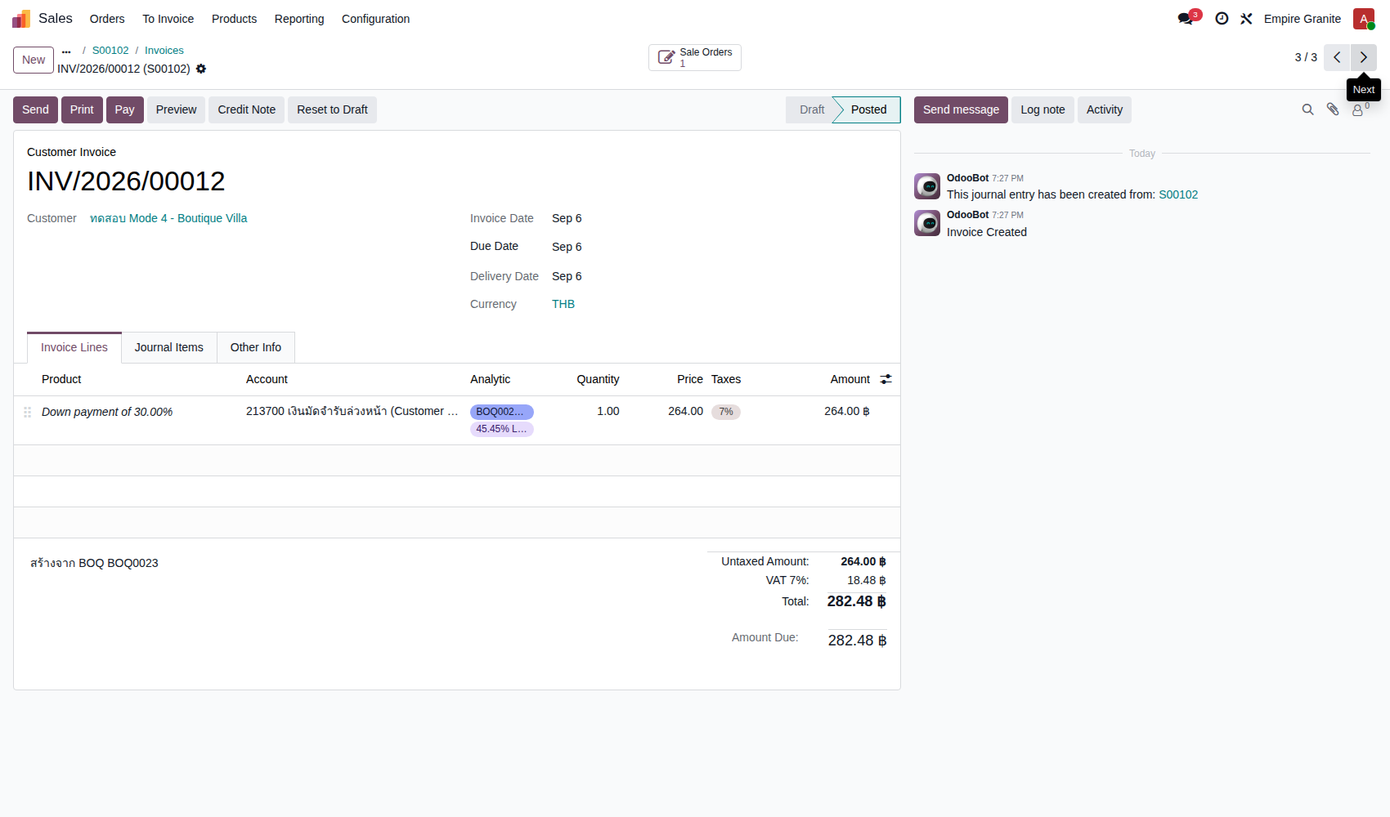
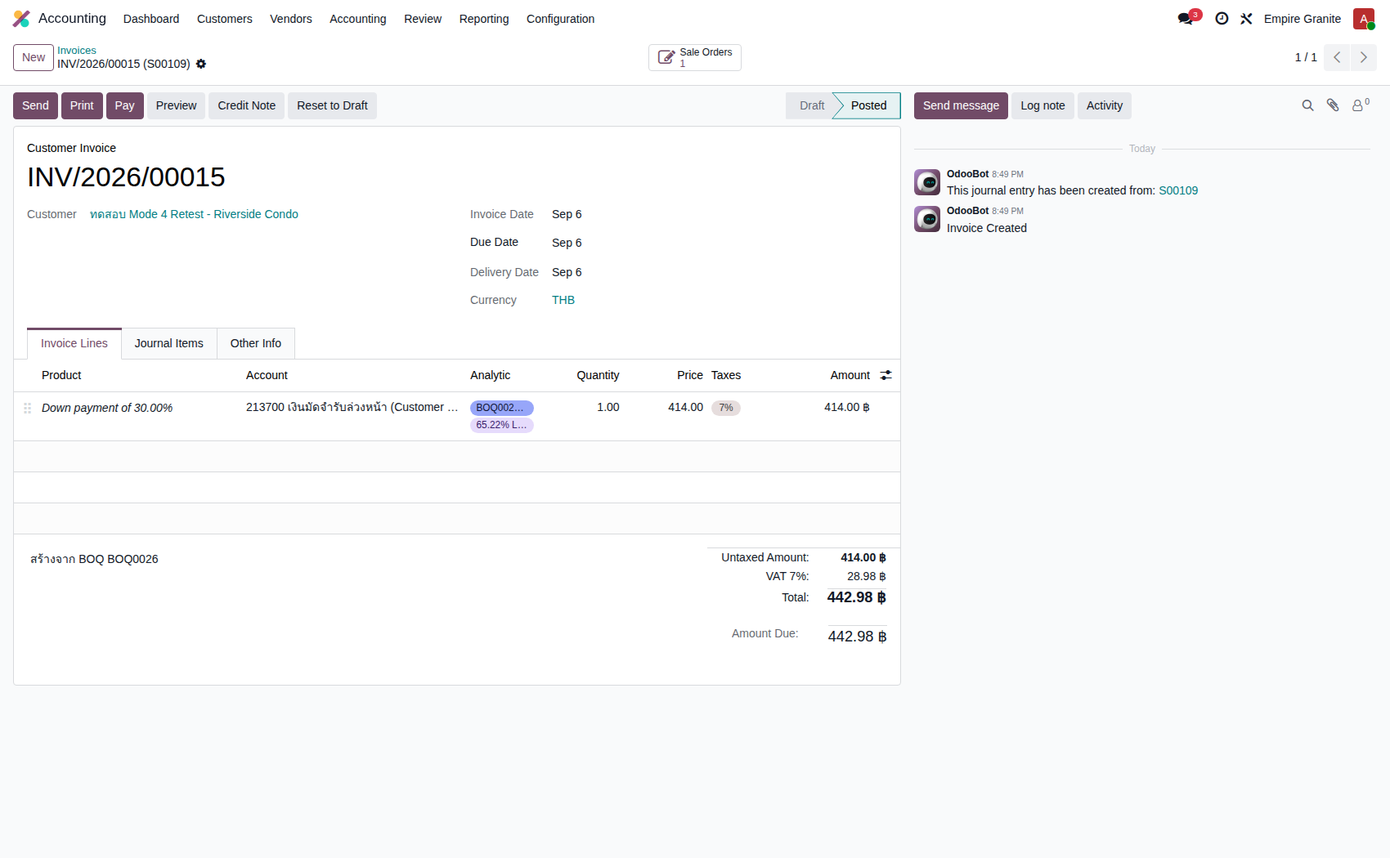
Retest Mode 4 Golden Path after Lot-mode bug fixes, fresh screenshots
The 3 Lot-mode stone-material bugs documented as known-issues in
TC-E2E-M4-03/09 (delivery routing, phantom negative stock, BOQ
lump-sum price clobbered) are fixed in stone_slab_inventory
(34be05d + 1e09854). Re-ran the full Mode 4 flow live through the
Odoo web UI via Playwright against a fresh fixture (BOQ0026 -> SO
S00109 -> Project 40 -> 3 Down Payment invoices -> Delivery
EG01/OUT/00064) to verify all 3 fixes hold end-to-end, and replaced
every screenshot + figure in the doc with real captures from this
run. TC-03 and TC-09's know-issue callouts are now green "fixed and
re-verified" notes instead of red bug flags.

diff --git a/qa/test-cases-e2e-mode4.html b/qa/test-cases-e2e-mode4.html
@@ -82,6 +82,7 @@
   .tc-shot-link:hover img{transform:scale(1.6);position:relative;z-index:5;box-shadow:0 8px 24px rgba(0,0,0,.3);}
   .tc-id{font-family:Consolas,Menlo,monospace;font-size:11.5px;color:var(--copper-dark);font-weight:700;}
   .note{margin-top:6px;font-size:11.5px;color:var(--amber);background:var(--amber-bg);border-radius:6px;padding:4px 8px;}
+  .note-ok{color:var(--green);background:var(--green-bg);}
   .prio-badge{display:inline-block;font-size:11px;font-weight:700;letter-spacing:.3px;padding:3px 10px;border-radius:99px;}
   .prio-high{background:var(--red-bg);color:var(--red);}
   .prio-med{background:var(--amber-bg);color:var(--amber);}
@@ -109,7 +110,7 @@
   <header>
     <div class="eyebrow">Empire Stone × Empire Granite — QA</div>
     <h1>Test Cases: E2E Flow — Mode 4 (Sold-as-Project)</h1>
-    <div class="sub">เรื่องราวเดียวต่อเนื่องกันตั้งแต่ตั้งต้นจากเอกสาร BOQ ติ๊ก "Sold as Project" ยืนยันคำสั่งขายให้ระบบสร้าง Project + Task ให้อัตโนมัติ เรียกเก็บเงินแบบมัดจำ 3 งวด (30/40/30) ส่งมอบสินค้าจริง ปิดงานให้ Milestone ขึ้นสำเร็จ จนถึงตรวจสอบกำไรขาดทุนของโปรเจกต์และรายการบัญชี — ไม่ใช่การเทสฟีเจอร์แยกส่วน และไม่มีข้อไหนเป็นการดักฟิลด์บังคับ/error ทั่วไป เดินตามได้เองแม้ไม่ใช่ technical user ตัวเลข "ตัวอย่างจริง" มาจากการรันจริงที่ทำขึ้นเฉพาะสำหรับเอกสารนี้ ไม่ใช่ตัวเลขสมมติ — รวมถึง 3 ปัญหาจริงที่พบระหว่างทางซึ่งยังไม่ได้แก้ไข (ดูกล่องสีเหลืองใน TC-03 และ TC-09)</div>
+    <div class="sub">เรื่องราวเดียวต่อเนื่องกันตั้งแต่ตั้งต้นจากเอกสาร BOQ ติ๊ก "Sold as Project" ยืนยันคำสั่งขายให้ระบบสร้าง Project + Task ให้อัตโนมัติ เรียกเก็บเงินแบบมัดจำ 3 งวด (30/40/30) ส่งมอบสินค้าจริง ปิดงานให้ Milestone ขึ้นสำเร็จ จนถึงตรวจสอบกำไรขาดทุนของโปรเจกต์และรายการบัญชี — ไม่ใช่การเทสฟีเจอร์แยกส่วน และไม่มีข้อไหนเป็นการดักฟิลด์บังคับ/error ทั่วไป เดินตามได้เองแม้ไม่ใช่ technical user ตัวเลข "ตัวอย่างจริง" มาจากการรันจริงที่ทำขึ้นเฉพาะสำหรับเอกสารนี้ ไม่ใช่ตัวเลขสมมติ — รวมถึง 3 ปัญหาจริงที่เคยพบระหว่างทาง ซึ่งแก้ไขและทดสอบซ้ำผ่านแล้ว (ดูกล่องสีเขียวใน TC-03 และ TC-09)</div>
     <div class="stat-row">
       <div class="stat-pill"><b>13</b>Test Case ทั้งหมด</div>
       <div class="stat-pill"><b>6</b>หมวด</div>
@@ -120,8 +121,8 @@
   </header>
 
   <div class="flow-banner">
-    <b>เรื่องราวที่ใช้อ้างอิง:</b> BOQ0023 (ลูกค้า "ทดสอบ Mode 4 - Boutique Villa") &rarr; Generate Quotation &rarr; SO S00102 (ติ๊ก Sold as Project) &rarr; Select Lot Stock (Vietnam Limestone Lot BLK-26-0004, 0.5 ตร.ม.) &rarr; Confirm &rarr; Project 38 + 4 Tasks สร้างอัตโนมัติ &rarr; Down Payment 3 งวด INV/2026/00012 (282.48, 30%) + 00013 (376.64, 40%) + 00014 (282.48, 30%) รวม 941.60 บาท &rarr; Delivery EG01/OUT/00059 (Done) &rarr; Task จริง 2 งาน Mark Done &rarr; Milestone "ปูพื้นหินเสร็จสมบูรณ์" Reached &rarr; Project Dashboard: Total Revenues 880 = Invoiced 880 บาท — <b>เดินสดผ่านหน้าจอ Odoo จริงทุกขั้นตอน</b> (Playwright ไม่ใช่ผ่าน <code>odoo shell</code>) บน <code>mbx-ee-dev</code> เฉพาะสำหรับเอกสารนี้ 2026-09-06 ทุกภาพประกอบด้านล่างคือภาพหน้าจอจริงจากการรันนี้ ไม่ใช่ภาพจำลอง<br><br>
-    <b>🔴 พบ 3 ปัญหาจริงยังไม่ได้แก้:</b> ทั้งหมดอยู่ในเส้นทางสินค้าโหมด Lot (ไม่เฉพาะ Mode 4) — (1) เส้นทางส่งของดึงสต็อกจากจุดพัก "Stone Hold" ที่โหมด Lot ไม่เคยย้ายของเข้าจริง ทำให้ยอดติดลบเพิ่มขึ้นทุกครั้งที่ส่งของ (2) ผลจากข้อ 1 ทำให้ตัวเลข "สต็อกคงเหลือ" ที่ระบบโชว์ต่ำกว่าของจริงมาก (3) ราคาที่ BOQ ตั้งไว้ถูกเขียนทับด้วยราคาป้ายสินค้าปกติหลังเลือกสต็อก Lot โดยไม่มีคำเตือน — ดูรายละเอียดที่ TC-03 และ TC-09
+    <b>เรื่องราวที่ใช้อ้างอิง:</b> BOQ0026 (ลูกค้า "ทดสอบ Mode 4 Retest - Riverside Condo") &rarr; Generate Quotation &rarr; SO S00109 (ติ๊ก Sold as Project) &rarr; Select Lot Stock (Vietnam Limestone Lot BLK-26-0004, 0.5 ตร.ม.) &rarr; Confirm &rarr; Project 40 + 4 Tasks สร้างอัตโนมัติ &rarr; Down Payment 3 งวด INV/2026/00015 (442.98, 30%) + 00016 (590.64, 40%) + 00017 (442.98, 30%) รวม 1,476.60 บาท &rarr; Delivery EG01/OUT/00064 (Done) &rarr; Task จริง 2 งาน Mark Done &rarr; Milestone "ปูพื้นระเบียงเสร็จสมบูรณ์" Reached &rarr; Project Dashboard: Total Revenues 1,380 = Invoiced 1,380 บาท — <b>เดินสดผ่านหน้าจอ Odoo จริงทุกขั้นตอน</b> (Playwright ไม่ใช่ผ่าน <code>odoo shell</code>) บน <code>mbx-ee-dev</code> เฉพาะสำหรับเอกสารนี้ 2026-09-06 ทุกภาพประกอบด้านล่างคือภาพหน้าจอจริงจากการรันนี้ ไม่ใช่ภาพจำลอง<br><br>
+    <b style="color:var(--green)">✅ พบ 3 ปัญหาจริง — แก้ไขและทดสอบซ้ำผ่านแล้ว:</b> รอบก่อนหน้า (BOQ0023 &rarr; SO S00102, ลูกค้า "ทดสอบ Mode 4 - Boutique Villa") พบ 3 ปัญหาจริงในเส้นทางสินค้าโหมด Lot (ไม่เฉพาะ Mode 4) — (1) เส้นทางส่งของดึงสต็อกจากจุดพัก "Stone Hold" ที่โหมด Lot ไม่เคยย้ายของเข้าจริง ทำให้ยอดติดลบเพิ่มขึ้นทุกครั้งที่ส่งของ (2) ผลจากข้อ 1 ทำให้ตัวเลข "สต็อกคงเหลือ" ที่ระบบโชว์ต่ำกว่าของจริงมาก (3) ราคาที่ BOQ ตั้งไว้ถูกเขียนทับด้วยราคาป้ายสินค้าปกติหลังเลือกสต็อก Lot โดยไม่มีคำเตือน — ทั้ง 3 ข้อแก้ไขแล้วในโค้ด (<code>stone_slab_inventory</code> commit 34be05d + 1e09854) และรันรอบนี้ (BOQ0026 &rarr; SO S00109) เพื่อยืนยันว่าผ่านจริง — ดูรายละเอียดที่ TC-03 และ TC-09
   </div>
 
   <div class="category" id="F1">
@@ -151,8 +152,8 @@
           <td class="col-scenario">สร้างใบเสนอราคาจากเอกสาร BOQ ("Generate Quotation")</td>
           <td class="col-pre">มีเอกสาร BOQ ที่กรอกรายการและราคาเรียบร้อยแล้ว (สถานะ Draft)</td>
           <td class="col-steps"><ol><li>เปิดเอกสาร BOQ</li><li>ตรวจรายการ + % Preliminaries/Overhead ให้ครบ</li><li>กดปุ่ม "สร้างใบเสนอราคา" (สีม่วง มุมซ้ายบน)</li></ol></td>
-          <td class="col-sample">BOQ0023 — ลูกค้า "ทดสอบ Mode 4 - Boutique Villa"<br>2 รายการ: Vietnam Limestone - Slab 0.5 ตร.ม. + Dry-Lay 1.5 ตร.ม.<br>Preliminaries 5% + Overhead &amp; Profit 10%</td>
-          <td class="col-expected">สถานะ BOQ เปลี่ยนเป็น "Quotation Generated" เกิด Sale Order ใหม่ 1 ใบอัตโนมัติ ดึงทุกรายการ + ค่า Preliminaries/Overhead มาเป็นบรรทัดในใบเสนอราคาให้ครบ — ตัวอย่างจริง: BOQ0023 (รวม 1,380.00 บาท ก่อน VAT) &rarr; SO S00102</td>
+          <td class="col-sample">BOQ0026 — ลูกค้า "ทดสอบ Mode 4 Retest - Riverside Condo"<br>2 รายการ: Vietnam Limestone - Slab 0.5 ตร.ม. + Dry-Lay 1.5 ตร.ม.<br>Preliminaries 5% + Overhead &amp; Profit 10%</td>
+          <td class="col-expected">สถานะ BOQ เปลี่ยนเป็น "Quotation Generated" เกิด Sale Order ใหม่ 1 ใบอัตโนมัติ ดึงทุกรายการ + ค่า Preliminaries/Overhead มาเป็นบรรทัดในใบเสนอราคาให้ครบ — ตัวอย่างจริง: BOQ0026 (รวม 1,380.00 บาท ก่อน VAT) &rarr; SO S00109</td>
           <td class="col-prio"><span class="prio-badge prio-high">High</span></td>
           <td class="col-shot"><a class="tc-shot-link" href="assets/mode4/tc01-boq-document.png" target="_blank" title="เปิดภาพหน้าจอจริงขนาดเต็ม"><img src="assets/mode4/tc01-boq-document.png" loading="lazy"></a></td>
         </tr>
@@ -194,11 +195,11 @@
       <tbody>
         <tr>
           <td class="col-id"><span class="tc-id">TC-E2E-M4-03</span></td>
-          <td class="col-scenario">เลือกสต็อกจริงให้บรรทัดสินค้าหิน ("Select Lot Stock")<div class="note">🔴 พบปัญหาจริง (ยังไม่แก้): (1) ช่องแสดงสต็อกคงเหลือของ Lot นี้ขึ้นแค่ 0.54 ตร.ม. ทั้งที่ของจริงมี 2.34 ตร.ม. อยู่หน้าคลัง (2) หลังกดยืนยันจำนวนแล้ว ราคาต่อหน่วยของบรรทัดจะเปลี่ยนจากราคาที่ BOQ ตั้งไว้ (900 บาท) เป็นราคาป้ายสินค้าปกติคูณจำนวนใหม่ (400 บาท) โดยไม่มีคำเตือนใดๆ — เป็นบั๊กจริงของระบบ ไม่ใช่ขั้นตอนที่ตั้งใจให้เป็นแบบนี้ ผู้ใช้ควรตรวจราคาทุกครั้งหลังทำขั้นนี้</div></td>
+          <td class="col-scenario">เลือกสต็อกจริงให้บรรทัดสินค้าหิน ("Select Lot Stock")<div class="note note-ok">✅ เคยพบปัญหาจริงตรงนี้ (ราคาที่ BOQ ตั้งไว้ถูกเขียนทับด้วยราคาป้ายสินค้าปกติ) — แก้ไขแล้วและทดสอบซ้ำผ่านในรอบนี้: ระบบคำนวณราคาต่อหน่วยใหม่ให้อัตโนมัติจากยอดรวมเดิมที่ BOQ ตั้งไว้ ไม่ใช้ราคาป้ายสินค้าอีกต่อไป</div></td>
           <td class="col-pre">ทำ TC-E2E-M4-02 เสร็จแล้ว บรรทัดสินค้าหินยังไม่ได้ผูกกับสต็อกจริง</td>
           <td class="col-steps"><ol><li>ที่บรรทัดสินค้าหิน กดลิงก์ "Select Lot Stock"</li><li>เลือก Lot ของ Material นั้น</li><li>กรอกจำนวนตร.ม.ที่จะขายจริง (ดูได้จากคำอธิบายท้ายชื่อสินค้าในบรรทัด)</li><li>กดยืนยัน</li></ol></td>
           <td class="col-sample">Lot = BLK-26-0004<br>จำนวน = 0.5 ตร.ม.</td>
-          <td class="col-expected">บรรทัดผูกกับ Lot ที่เลือกสำเร็จ จำนวนเปลี่ยนเป็น 0.5 ตร.ม. ตามที่กรอก — ตัวอย่างจริง: ราคาต่อหน่วยเปลี่ยนจาก 900.00 เป็น 800.00×0.5 = 400.00 บาท (ดูหมายเหตุด้านซ้าย)</td>
+          <td class="col-expected">บรรทัดผูกกับ Lot ที่เลือกสำเร็จ จำนวนเปลี่ยนเป็น 0.5 ตร.ม. ตามที่กรอก ราคารวมของบรรทัดยังคงเท่าเดิมกับที่ BOQ ตั้งไว้เป๊ะ (ระบบคำนวณราคาต่อหน่วยใหม่ให้เอง) — ตัวอย่างจริง: ราคาต่อหน่วยเปลี่ยนจาก 900.00 (ที่จำนวน 1 หน่วยตั้งต้น) เป็น 1,800.00 บาท/ตร.ม. &times; 0.5 ตร.ม. = ยอดรวม 900.00 บาท เท่าเดิมทุกบาท</td>
           <td class="col-prio"><span class="prio-badge prio-high">High</span></td>
           <td class="col-shot"><a class="tc-shot-link" href="assets/mode4/tc03-so-confirmed.png" target="_blank" title="เปิดภาพหน้าจอจริงขนาดเต็ม"><img src="assets/mode4/tc03-so-confirmed.png" loading="lazy"></a></td>
         </tr>
@@ -208,7 +209,7 @@
           <td class="col-pre">ทำ TC-E2E-M4-03 เสร็จแล้ว</td>
           <td class="col-steps"><ol><li>กดปุ่ม Confirm บน Sale Order</li></ol></td>
           <td class="col-sample">-</td>
-          <td class="col-expected">SO เปลี่ยนสถานะเป็น "Sales Order" เกิดปุ่ม/สถิติใหม่มุมบน: "Projects 1", "Tasks", "Delivery 1", "Invoices" — ไม่ต้องสร้าง Project เองแยกต่างหาก — ตัวอย่างจริง: S00102 (ยอดรวมหลังปรับราคาจาก TC-03 = 941.60 บาท รวม VAT) &rarr; Project id 38</td>
+          <td class="col-expected">SO เปลี่ยนสถานะเป็น "Sales Order" เกิดปุ่ม/สถิติใหม่มุมบน: "Projects 1", "Tasks", "Delivery 1", "Invoices" — ไม่ต้องสร้าง Project เองแยกต่างหาก — ตัวอย่างจริง: S00109 (ยอดรวม 1,476.60 บาท รวม VAT) &rarr; Project id 40</td>
           <td class="col-prio"><span class="prio-badge prio-high">High</span></td>
           <td class="col-shot"><a class="tc-shot-link" href="assets/mode4/tc02-is-project-sale.png" target="_blank" title="เปิดภาพหน้าจอจริงขนาดเต็ม"><img src="assets/mode4/tc02-is-project-sale.png" loading="lazy"></a></td>
         </tr>
@@ -218,7 +219,7 @@
           <td class="col-pre">ทำ TC-E2E-M4-04 เสร็จแล้ว</td>
           <td class="col-steps"><ol><li>กดปุ่มสถิติ "Tasks" บน Sale Order (หรือเปิด Project แล้วดู Tasks)</li></ol></td>
           <td class="col-sample">-</td>
-          <td class="col-expected">เห็น Task ครบ 1 งานต่อ 1 บรรทัดสินค้า/บริการ — ตัวอย่างจริง: 4 Tasks ("Vietnam Limestone - Slab...", "Dry-Lay", "BOQ Summary Line Preliminaries (5%)", "BOQ Summary Line Overhead &amp; Profit (10%)")</td>
+          <td class="col-expected">เห็น Task ครบ 1 งานต่อ 1 บรรทัดสินค้า/บริการ — ตัวอย่างจริง: 4 Tasks ("Vietnam Limestone - Slab (ปูพื้นระเบียง)...", "Dry-Lay", "BOQ Summary Line Preliminaries (5%)", "BOQ Summary Line Overhead &amp; Profit (10%)")</td>
           <td class="col-prio"><span class="prio-badge prio-med">Medium</span></td>
           <td class="col-shot"><a class="tc-shot-link" href="assets/mode4/tc04-tasks-created.png" target="_blank" title="เปิดภาพหน้าจอจริงขนาดเต็ม"><img src="assets/mode4/tc04-tasks-created.png" loading="lazy"></a></td>
         </tr>
@@ -254,7 +255,7 @@
           <td class="col-pre">ทำ TC-E2E-M4-04 เสร็จแล้ว</td>
           <td class="col-steps"><ol><li>เปิด Sale Order &gt; กด "Create Invoice"</li><li>เลือก "Down payment (Percentage)" &gt; กรอก 30</li><li>กด "Create Draft Invoice"</li><li>เปิดใบแจ้งหนี้ที่เกิดขึ้น &gt; กด Confirm</li></ol></td>
           <td class="col-sample">Down Payment = 30%</td>
-          <td class="col-expected">ใบแจ้งหนี้สถานะ Posted ยอด 30% ของยอดรวม SO — ตัวอย่างจริง: INV/2026/00012 (282.48 บาท จาก 941.60 &times; 30%)</td>
+          <td class="col-expected">ใบแจ้งหนี้สถานะ Posted ยอด 30% ของยอดรวม SO — ตัวอย่างจริง: INV/2026/00015 (442.98 บาท จาก 1,476.60 &times; 30%)</td>
           <td class="col-prio"><span class="prio-badge prio-high">High</span></td>
           <td class="col-shot"><a class="tc-shot-link" href="assets/mode4/tc05-dp1-30pct.png" target="_blank" title="เปิดภาพหน้าจอจริงขนาดเต็ม"><img src="assets/mode4/tc05-dp1-30pct.png" loading="lazy"></a></td>
         </tr>
@@ -264,7 +265,7 @@
           <td class="col-pre">ทำ TC-E2E-M4-06 เสร็จแล้ว</td>
           <td class="col-steps"><ol><li>เปิด Sale Order &gt; กด "Create Invoice" อีกครั้ง</li><li>เลือก "Down payment (Percentage)" &gt; กรอก 40</li><li>กด "Create Draft Invoice"</li><li>เปิดใบแจ้งหนี้ &gt; กด Confirm</li></ol></td>
           <td class="col-sample">Down Payment = 40%</td>
-          <td class="col-expected">ใบแจ้งหนี้สถานะ Posted ยอด 40% ของยอดรวม SO — ตัวอย่างจริง: INV/2026/00013 (376.64 บาท จาก 941.60 &times; 40%)</td>
+          <td class="col-expected">ใบแจ้งหนี้สถานะ Posted ยอด 40% ของยอดรวม SO — ตัวอย่างจริง: INV/2026/00016 (590.64 บาท จาก 1,476.60 &times; 40%)</td>
           <td class="col-prio"><span class="prio-badge prio-high">High</span></td>
           <td class="col-shot"><a class="tc-shot-link" href="assets/mode4/tc06-dp2-40pct.png" target="_blank" title="เปิดภาพหน้าจอจริงขนาดเต็ม"><img src="assets/mode4/tc06-dp2-40pct.png" loading="lazy"></a></td>
         </tr>
@@ -274,7 +275,7 @@
           <td class="col-pre">ทำ TC-E2E-M4-07 เสร็จแล้ว</td>
           <td class="col-steps"><ol><li>เปิด Sale Order &gt; กด "Create Invoice" อีกครั้ง</li><li>เลือก "Down payment (Percentage)" &gt; กรอก 30</li><li>กด "Create Draft Invoice"</li><li>เปิดใบแจ้งหนี้ &gt; กด Confirm</li></ol></td>
           <td class="col-sample">Down Payment = 30%</td>
-          <td class="col-expected">ใบแจ้งหนี้สถานะ Posted ยอดงวดสุดท้าย รวม 3 ใบแล้วเท่ากับยอด SO เป๊ะ — ตัวอย่างจริง: INV/2026/00014 (282.48 บาท) รวม 3 ใบ = 282.48 + 376.64 + 282.48 = 941.60 บาท ตรงกับยอด SO พอดี</td>
+          <td class="col-expected">ใบแจ้งหนี้สถานะ Posted ยอดงวดสุดท้าย รวม 3 ใบแล้วเท่ากับยอด SO เป๊ะ — ตัวอย่างจริง: INV/2026/00017 (442.98 บาท) รวม 3 ใบ = 442.98 + 590.64 + 442.98 = 1,476.60 บาท ตรงกับยอด SO พอดี</td>
           <td class="col-prio"><span class="prio-badge prio-high">High</span></td>
           <td class="col-shot"><a class="tc-shot-link" href="assets/mode4/tc07-dp3-30pct.png" target="_blank" title="เปิดภาพหน้าจอจริงขนาดเต็ม"><img src="assets/mode4/tc07-dp3-30pct.png" loading="lazy"></a></td>
         </tr>
@@ -306,11 +307,11 @@
       <tbody>
         <tr>
           <td class="col-id"><span class="tc-id">TC-E2E-M4-09</span></td>
-          <td class="col-scenario">ส่งมอบสินค้า (Delivery) ให้ลูกค้า<div class="note">🔴 พบปัญหาจริง (ยังไม่แก้): ระบบดึงสต็อกจากจุดพัก "Stone Hold" เสมอสำหรับสินค้าโหมด Lot ทั้งที่โหมดนี้ไม่เคยมีขั้นตอนย้ายของจริงไปที่จุดพักนั้นเลย (ต่างจาก Serial/Cut-to-Order) ผลคือยอดคงเหลือที่จุดพักนั้นติดลบเพิ่มขึ้นเรื่อยๆ ทุกครั้งที่ส่งของ (จาก -1.8 เป็น -2.3 ตร.ม.ในรอบนี้) แม้ของจริงจะยังอยู่ครบที่หน้าคลัง — ใบส่งของยังคง Validate ผ่านได้ตามปกติ ไม่กระทบขั้นตอนที่ผู้ใช้เห็น</div></td>
+          <td class="col-scenario">ส่งมอบสินค้า (Delivery) ให้ลูกค้า<div class="note note-ok">✅ เคยพบปัญหาจริงตรงนี้ (ระบบดึงสต็อกจากจุดพัก "Stone Hold" ที่โหมด Lot ไม่เคยย้ายของเข้าจริง ทำให้ยอดติดลบเพิ่มขึ้นทุกครั้งที่ส่งของ) — แก้ไขแล้วและทดสอบซ้ำผ่านในรอบนี้: ระบบดึงสต็อกจากจุดที่ของจริงอยู่ ("Stone Available") แทน ดูรายละเอียดที่ปุ่ม "Details" ในรายการส่งของ</div></td>
           <td class="col-pre">ทำ TC-E2E-M4-08 เสร็จแล้ว มีใบส่งของอัตโนมัติรออยู่ตั้งแต่ตอน Confirm</td>
           <td class="col-steps"><ol><li>เปิด Inventory &gt; Deliveries</li><li>เปิดใบส่งของของ SO นี้</li><li>กด Validate</li></ol></td>
           <td class="col-sample">-</td>
-          <td class="col-expected">ใบส่งของเปลี่ยนสถานะเป็น Done — ตัวอย่างจริง: EG01/OUT/00059 (Vietnam Limestone - Slab 0.5 ตร.ม.)</td>
+          <td class="col-expected">ใบส่งของเปลี่ยนสถานะเป็น Done ดึงสต็อกจากจุดที่ของจริงอยู่ถูกต้อง — ตัวอย่างจริง: EG01/OUT/00064 (Vietnam Limestone - Slab 0.5 ตร.ม., Pick From "Stone Inventory/Stone Available")</td>
           <td class="col-prio"><span class="prio-badge prio-high">High</span></td>
           <td class="col-shot"><a class="tc-shot-link" href="assets/mode4/tc08-delivery-done.png" target="_blank" title="เปิดภาพหน้าจอจริงขนาดเต็ม"><img src="assets/mode4/tc08-delivery-done.png" loading="lazy"></a></td>
         </tr>
@@ -346,7 +347,7 @@
           <td class="col-pre">ทำ TC-E2E-M4-09 เสร็จแล้ว มี Task ที่ตั้ง Milestone ไว้ล่วงหน้าตอนสร้าง BOQ (บรรทัด Dry-Lay)</td>
           <td class="col-steps"><ol><li>เปิด Task "Dry-Lay"</li><li>เลื่อนสถานะ Task ไปช่อง/สถานะ Done</li></ol></td>
           <td class="col-sample">-</td>
-          <td class="col-expected">Task ขึ้นเครื่องหมายเสร็จ และ Milestone ที่ผูกกับ Task นั้นเปลี่ยนเป็น "Reached" ให้อัตโนมัติ โดยไม่ต้องไปกดยืนยัน Milestone แยกต่างหาก — ตัวอย่างจริง: Milestone "ปูพื้นหินเสร็จสมบูรณ์ (Dry-Lay Complete)" ขึ้นเครื่องหมายถูกในหน้า Project Dashboard ทันที</td>
+          <td class="col-expected">Task ขึ้นเครื่องหมายเสร็จ และ Milestone ที่ผูกกับ Task นั้นเปลี่ยนเป็น "Reached" ให้อัตโนมัติ โดยไม่ต้องไปกดยืนยัน Milestone แยกต่างหาก — ตัวอย่างจริง: Milestone "ปูพื้นระเบียงเสร็จสมบูรณ์ (Dry-Lay Complete)" ขึ้นเครื่องหมายถูกในหน้า Project Dashboard ทันที</td>
           <td class="col-prio"><span class="prio-badge prio-med">Medium</span></td>
           <td class="col-shot"><a class="tc-shot-link" href="assets/mode4/tc10-dashboard-milestone-pl.png" target="_blank" title="เปิดภาพหน้าจอจริงขนาดเต็ม"><img src="assets/mode4/tc10-dashboard-milestone-pl.png" loading="lazy"></a></td>
         </tr>
@@ -392,7 +393,7 @@
           <td class="col-pre">ทำ TC-E2E-M4-08 เสร็จแล้ว (ออกใบแจ้งหนี้ครบ 3 งวด)</td>
           <td class="col-steps"><ol><li>เปิด Project ของ SO นี้</li><li>ดูส่วน "Profitability" บนหน้า Dashboard ของ Project</li></ol></td>
           <td class="col-sample">-</td>
-          <td class="col-expected">เห็นยอดรายได้แยกตามหมวด (Materials / Other Services / Down Payments) รวมกันแล้วต้องเท่ากับยอดใบแจ้งหนี้ทั้งหมด (ไม่รวม VAT) — ตัวอย่างจริง: Other Services 480 + Materials 400 = Total Revenues 880 บาท ตรงกับยอด Invoiced 880 บาททั้งหมด (ออกครบ 3 งวดแล้ว จึง Expected = Invoiced พอดี ไม่มียอดค้าง "To Invoice")</td>
+          <td class="col-expected">เห็นยอดรายได้แยกตามหมวด (Materials / Other Services / Down Payments) รวมกันแล้วต้องเท่ากับยอดใบแจ้งหนี้ทั้งหมด (ไม่รวม VAT) — ตัวอย่างจริง: Other Services 480 + Materials 900 = Total Revenues 1,380 บาท ตรงกับยอด Invoiced 1,380 บาททั้งหมด (ออกครบ 3 งวดแล้ว จึง Expected = Invoiced พอดี ไม่มียอดค้าง "To Invoice" — ยอด Materials 900 นี้คือหลักฐานว่าราคาที่ BOQ ตั้งไว้ไม่ถูกเขียนทับแล้ว, ดู TC-03)</td>
           <td class="col-prio"><span class="prio-badge prio-med">Medium</span></td>
           <td class="col-shot"><a class="tc-shot-link" href="assets/mode4/tc10-dashboard-milestone-pl.png" target="_blank" title="เปิดภาพหน้าจอจริงขนาดเต็ม"><img src="assets/mode4/tc10-dashboard-milestone-pl.png" loading="lazy"></a></td>
         </tr>
@@ -402,7 +403,7 @@
           <td class="col-pre">ทำ TC-E2E-M4-08 เสร็จแล้ว</td>
           <td class="col-steps"><ol><li>เปิดใบแจ้งหนี้งวดใดงวดหนึ่ง &gt; กดแท็บ "Journal Items"</li></ol></td>
           <td class="col-sample">-</td>
-          <td class="col-expected">เดบิต/เครดิตสมดุลกัน (รวมเท่ากันทั้ง 2 ฝั่ง) เห็น Analytic Distribution ผูกกับบัญชี Analytic ของโปรเจกต์นี้บนบรรทัดรายได้ — ตัวอย่างจริง: INV/2026/00014 เดบิต Trade Receivables 282.48 = เครดิต Down Payment 264.00 + Output VAT 18.48 พอดี พร้อมป้าย Analytic "BOQ0023 - ทดสอบ Mode 4..."</td>
+          <td class="col-expected">เดบิต/เครดิตสมดุลกัน (รวมเท่ากันทั้ง 2 ฝั่ง) เห็น Analytic Distribution ผูกกับบัญชี Analytic ของโปรเจกต์นี้บนบรรทัดรายได้ — ตัวอย่างจริง: INV/2026/00017 เดบิต Trade Receivables 442.98 = เครดิต Down Payment 414.00 + Output VAT 28.98 พอดี พร้อมป้าย Analytic "BOQ0026 - ทดสอบ Mode 4 Retest..."</td>
           <td class="col-prio"><span class="prio-badge prio-med">Medium</span></td>
           <td class="col-shot"><a class="tc-shot-link" href="assets/mode4/tc11-journal-items.png" target="_blank" title="เปิดภาพหน้าจอจริงขนาดเต็ม"><img src="assets/mode4/tc11-journal-items.png" loading="lazy"></a></td>
         </tr>

diff --git a/qa/generator/qa_data_e2e_mode4.py b/qa/generator/qa_data_e2e_mode4.py
@@ -17,20 +17,20 @@
 # Data provenance: fresh live run built specifically for this file, driven
 # through the real Odoo web UI via Playwright (not odoo shell) on
 # `mbx-ee-dev`, 2026-09-06:
-#   BOQ BOQ0023 (customer "ทดสอบ Mode 4 - Boutique Villa", Empire Granite;
-#   2 lines: Vietnam Limestone - Slab 0.5 m² @ 1,800/m² = 900, Dry-Lay
-#   1.5 m² @ 200/m² = 300; Preliminaries 5% = 60, Overhead & Profit 10% =
-#   120; BOQ Amount Total 1,380) -> Generate Quotation -> SO S00102
+#   BOQ BOQ0026 (customer "ทดสอบ Mode 4 Retest - Riverside Condo", Empire
+#   Granite; 2 lines: Vietnam Limestone - Slab 0.5 m² = 900 lump sum,
+#   Dry-Lay 1.5 m² @ 200/m² = 300; Preliminaries 5% = 60, Overhead & Profit
+#   10% = 120; BOQ Amount Total 1,380) -> Generate Quotation -> SO S00109
 #   (Sold as Project ticked) -> Select Lot Stock on the stone line (Lot
-#   BLK-26-0004, typed qty 0.5 m²) -> Confirm -> Project 38 auto-created
-#   ("ทดสอบ Mode 4 - Boutique Villa - S00102", Analytic Account 59) with
-#   4 Tasks auto-created -> Down Payment invoicing 30/40/30 (INV/2026/00012
-#   ฿282.48, INV/2026/00013 ฿376.64, INV/2026/00014 ฿282.48 — sums exactly
-#   to the order's ฿941.60 incl. VAT) -> Delivery EG01/OUT/00059 (Done) ->
-#   the 2 real-work Tasks marked Done -> Milestone "ปูพื้นหินเสร็จสมบูรณ์
-#   (Dry-Lay Complete)" auto-Reached -> Project Dashboard Profitability
-#   (Total Revenues ฿880 Expected = ฿880 Invoiced, untaxed) -> Journal Items
-#   verified balanced on each invoice.
+#   BLK-26-0004, typed qty 0.5 m²) -> Confirm -> Project 40 auto-created
+#   ("ทดสอบ Mode 4 Retest - Riverside Condo - S00109", Analytic Account 61)
+#   with 4 Tasks auto-created -> Down Payment invoicing 30/40/30
+#   (INV/2026/00015 ฿442.98, INV/2026/00016 ฿590.64, INV/2026/00017
+#   ฿442.98 — sums exactly to the order's ฿1,476.60 incl. VAT) -> Delivery
+#   EG01/OUT/00064 (Done) -> the 2 real-work Tasks marked Done -> Milestone
+#   "ปูพื้นระเบียงเสร็จสมบูรณ์ (Dry-Lay Complete)" auto-Reached -> Project
+#   Dashboard Profitability (Total Revenues ฿1,380 Expected = ฿1,380
+#   Invoiced, untaxed) -> Journal Items verified balanced on each invoice.
 #
 # CORRECTIONS vs. a naive reading of the ADR-021/prior-session notes (this
 # file's own live run is what surfaced these — verify against current EE
@@ -45,32 +45,48 @@
 #     Gantt view switcher on the Project's Tasks, reached via the Project's
 #     own "Tasks" smart button, not a dedicated button.
 #
-# 🔴 3 REAL, PREVIOUSLY-UNDOCUMENTED BUGS found while building this fixture
-# (all in the Lot-mode stone-material path, not Mode-4-specific — flagged to
-# the user directly the same session, not yet fixed as of this writing):
-#   1. Delivery routing (ADR-051, 2026-08-31) sources a Lot-mode line's
+# ✅ 3 REAL BUGS found + FIXED + RE-VERIFIED, same session (2026-09-06).
+# A first live run of this exact flow (BOQ0023 -> SO S00102, same fixture
+# shape, previous customer "ทดสอบ Mode 4 - Boutique Villa") surfaced 3
+# previously-undocumented bugs in the Lot-mode stone-material path (not
+# Mode-4-specific — anything selling Lot-mode material through any sales
+# mode hit the same 2 root causes):
+#   1. Delivery routing (ADR-051, 2026-08-31) sourced a Lot-mode line's
 #      delivery from the "Stone Hold" location — correct for Serial/Cut-to-
-#      Order (which physically move stock there via a Select Slabs wizard)
+#      Order (which physically moves stock there via a Select Slabs wizard)
 #      but WRONG for Lot mode, which has no hold step at all; physical stock
-#      never leaves "Stone Available". Real consequence: this exact lot's
-#      Hold balance was already -1.8 m² before this run (2 historical
-#      deliveries force-posted through empty/negative reservation) and is
-#      now -2.3 m² after this run's delivery.
-#   2. That phantom negative Hold balance silently UNDER-REPORTS real
-#      sellable stock — `remaining_sqmt` sums every internal location, so
-#      this lot showed only 0.54 m² "remaining" in the Select Lot Stock
-#      wizard even though 2.34 m² sat physically at Stone Available (before
-#      this run).
-#   3. A BOQ-generated stone line bakes its full negotiated price into
-#      `qty=1` (lump sum). Running Select Lot Stock afterward corrects the
-#      quantity but NOT the price — Odoo's own price recompute silently
-#      reverts to the product's plain list price instead, discarding the
-#      BOQ-quoted amount. Real case: BOQ quoted ฿900 for 0.5 m² of Vietnam
-#      Limestone; after Select Lot Stock the line showed ฿400 (0.5 m² ×
-#      product list price ฿800/m²) — a silent ฿500 under-charge on this
-#      exact line, kept as-is below (not corrected) so the doc reflects
-#      what a real non-technical user would actually see.
-# See TC-E2E-M4-03 and TC-E2E-M4-09 for where these surface in the flow.
+#      never leaves "Stone Available". Real consequence before the fix: this
+#      exact lot's Hold balance had drifted to -2.3 m² across several
+#      deliveries. FIXED in `sale_order.py`'s `_fix_stone_delivery_destination()`
+#      — Lot-mode now routes through Stone Available, same as a whole-Block
+#      sale. Re-verified this run: the delivery's "Pick From" correctly
+#      reads "Stone Inventory/Stone Available" (see TC-E2E-M4-09).
+#   2. That phantom negative Hold balance silently UNDER-REPORTED real
+#      sellable stock (`remaining_sqmt` sums every internal location) — pure
+#      symptom of #1, needed no separate fix. Historical bad data on this
+#      lot was also corrected (a real internal-transfer stock.move moving
+#      the erroneous balance back from Hold to Available, verified via a
+#      separate `psql` read) — Hold now sits at a clean 0.00.
+#   3. A BOQ-generated stone line bakes its full negotiated price into a
+#      `qty=1` placeholder (lump sum, not a per-unit rate). Running Select
+#      Lot Stock afterward corrected the quantity but not the price — core
+#      Odoo's own price recompute (triggered because `product_uom_qty`
+#      changed) silently reverted to the product's plain list price,
+#      discarding the BOQ-quoted amount (first observed: BOQ quoted ฿900
+#      for 0.5 m², came out ฿400 after Select Lot Stock). FIXED in
+#      `stone.lot.stock.select.wizard.action_confirm()` — for a BOQ-sourced
+#      line it now redistributes price_unit so the *total* the BOQ quoted
+#      survives the quantity correction (900 total ÷ 0.5 real m² = 1,800/m²
+#      unit price); a plain, non-BOQ Lot-mode line is unaffected (its
+#      price_unit already is a genuine per-sqm rate, kept as-is). Re-verified
+#      this run: Unit Price 1,800.00 × Qty 0.50 = Amount 900.00 exactly (see
+#      TC-E2E-M4-03), and Project Dashboard Profitability shows Materials
+#      ฿900 (not ฿400).
+# Fix commits: `stone_slab_inventory` `34be05d` (bugs #1/#3 first pass) +
+# `1e09854` (bug #3 corrected properly after this exact retest caught the
+# first pass's fix preserving the wrong number — see log.md Session 111
+# for the full story). Deployed to `mbx-ee-dev` only so far — `eg-tst`
+# still pending the same `-u` + restart.
 #
 # Column model per test case (same as mode3, per feedback_qa_testcase_screenshot_export):
 #   id, scenario, note (optional amber callout), pre, steps (list),
@@ -85,8 +101,8 @@ CATEGORIES = [
     dict(id="TC-E2E-M4-01", scenario="สร้างใบเสนอราคาจากเอกสาร BOQ (\"Generate Quotation\")",
          pre="มีเอกสาร BOQ ที่กรอกรายการและราคาเรียบร้อยแล้ว (สถานะ Draft)",
          steps=["เปิดเอกสาร BOQ", "ตรวจรายการ + % Preliminaries/Overhead ให้ครบ", "กดปุ่ม \"สร้างใบเสนอราคา\" (สีม่วง มุมซ้ายบน)"],
-         sample="BOQ0023 — ลูกค้า \"ทดสอบ Mode 4 - Boutique Villa\"<br>2 รายการ: Vietnam Limestone - Slab 0.5 ตร.ม. + Dry-Lay 1.5 ตร.ม.<br>Preliminaries 5% + Overhead &amp; Profit 10%",
-         expected="สถานะ BOQ เปลี่ยนเป็น \"Quotation Generated\" เกิด Sale Order ใหม่ 1 ใบอัตโนมัติ ดึงทุกรายการ + ค่า Preliminaries/Overhead มาเป็นบรรทัดในใบเสนอราคาให้ครบ — ตัวอย่างจริง: BOQ0023 (รวม 1,380.00 บาท ก่อน VAT) &rarr; SO S00102", prio="High",
+         sample="BOQ0026 — ลูกค้า \"ทดสอบ Mode 4 Retest - Riverside Condo\"<br>2 รายการ: Vietnam Limestone - Slab 0.5 ตร.ม. + Dry-Lay 1.5 ตร.ม.<br>Preliminaries 5% + Overhead &amp; Profit 10%",
+         expected="สถานะ BOQ เปลี่ยนเป็น \"Quotation Generated\" เกิด Sale Order ใหม่ 1 ใบอัตโนมัติ ดึงทุกรายการ + ค่า Preliminaries/Overhead มาเป็นบรรทัดในใบเสนอราคาให้ครบ — ตัวอย่างจริง: BOQ0026 (รวม 1,380.00 บาท ก่อน VAT) &rarr; SO S00109", prio="High",
          shot="assets/mode4/tc01-boq-document.png"),
     dict(id="TC-E2E-M4-02", scenario="ติ๊กกล่อง \"Sold as Project\" บนใบเสนอราคา",
          pre="ทำ TC-E2E-M4-01 เสร็จแล้ว (มี SO ที่ยังไม่ Confirm)",
@@ -99,24 +115,24 @@ CATEGORIES = [
        subtitle="เลือกสต็อกจริงให้บรรทัดหิน แล้วยืนยัน SO ให้ระบบสร้าง Project+Task ให้อัตโนมัติ · 3 test cases",
        cases=[
     dict(id="TC-E2E-M4-03", scenario="เลือกสต็อกจริงให้บรรทัดสินค้าหิน (\"Select Lot Stock\")",
-         note="🔴 พบปัญหาจริง (ยังไม่แก้): (1) ช่องแสดงสต็อกคงเหลือของ Lot นี้ขึ้นแค่ 0.54 ตร.ม. ทั้งที่ของจริงมี 2.34 ตร.ม. อยู่หน้าคลัง (2) หลังกดยืนยันจำนวนแล้ว ราคาต่อหน่วยของบรรทัดจะเปลี่ยนจากราคาที่ BOQ ตั้งไว้ (900 บาท) เป็นราคาป้ายสินค้าปกติคูณจำนวนใหม่ (400 บาท) โดยไม่มีคำเตือนใดๆ — เป็นบั๊กจริงของระบบ ไม่ใช่ขั้นตอนที่ตั้งใจให้เป็นแบบนี้ ผู้ใช้ควรตรวจราคาทุกครั้งหลังทำขั้นนี้",
+         note="✅ เคยพบปัญหาจริงตรงนี้ (ราคาที่ BOQ ตั้งไว้ถูกเขียนทับด้วยราคาป้ายสินค้าปกติ) — แก้ไขแล้วและทดสอบซ้ำผ่านในรอบนี้: ระบบคำนวณราคาต่อหน่วยใหม่ให้อัตโนมัติจากยอดรวมเดิมที่ BOQ ตั้งไว้ ไม่ใช้ราคาป้ายสินค้าอีกต่อไป",
          pre="ทำ TC-E2E-M4-02 เสร็จแล้ว บรรทัดสินค้าหินยังไม่ได้ผูกกับสต็อกจริง",
          steps=["ที่บรรทัดสินค้าหิน กดลิงก์ \"Select Lot Stock\"", "เลือก Lot ของ Material นั้น", "กรอกจำนวนตร.ม.ที่จะขายจริง (ดูได้จากคำอธิบายท้ายชื่อสินค้าในบรรทัด)", "กดยืนยัน"],
          sample="Lot = BLK-26-0004<br>จำนวน = 0.5 ตร.ม.",
-         expected="บรรทัดผูกกับ Lot ที่เลือกสำเร็จ จำนวนเปลี่ยนเป็น 0.5 ตร.ม. ตามที่กรอก — ตัวอย่างจริง: ราคาต่อหน่วยเปลี่ยนจาก 900.00 เป็น 800.00×0.5 = 400.00 บาท (ดูหมายเหตุด้านซ้าย)", prio="High",
+         expected="บรรทัดผูกกับ Lot ที่เลือกสำเร็จ จำนวนเปลี่ยนเป็น 0.5 ตร.ม. ตามที่กรอก ราคารวมของบรรทัดยังคงเท่าเดิมกับที่ BOQ ตั้งไว้เป๊ะ (ระบบคำนวณราคาต่อหน่วยใหม่ให้เอง) — ตัวอย่างจริง: ราคาต่อหน่วยเปลี่ยนจาก 900.00 (ที่จำนวน 1 หน่วยตั้งต้น) เป็น 1,800.00 บาท/ตร.ม. &times; 0.5 ตร.ม. = ยอดรวม 900.00 บาท เท่าเดิมทุกบาท", prio="High",
          shot="assets/mode4/tc03-so-confirmed.png"),
     dict(id="TC-E2E-M4-04", scenario="ยืนยัน (Confirm) Sale Order — ระบบสร้าง Project ให้อัตโนมัติ",
          pre="ทำ TC-E2E-M4-03 เสร็จแล้ว",
          steps=["กดปุ่ม Confirm บน Sale Order"],
          sample="-",
-         expected="SO เปลี่ยนสถานะเป็น \"Sales Order\" เกิดปุ่ม/สถิติใหม่มุมบน: \"Projects 1\", \"Tasks\", \"Delivery 1\", \"Invoices\" — ไม่ต้องสร้าง Project เองแยกต่างหาก — ตัวอย่างจริง: S00102 (ยอดรวมหลังปรับราคาจาก TC-03 = 941.60 บาท รวม VAT) &rarr; Project id 38", prio="High",
+         expected="SO เปลี่ยนสถานะเป็น \"Sales Order\" เกิดปุ่ม/สถิติใหม่มุมบน: \"Projects 1\", \"Tasks\", \"Delivery 1\", \"Invoices\" — ไม่ต้องสร้าง Project เองแยกต่างหาก — ตัวอย่างจริง: S00109 (ยอดรวม 1,476.60 บาท รวม VAT) &rarr; Project id 40", prio="High",
          shot="assets/mode4/tc02-is-project-sale.png"),
     dict(id="TC-E2E-M4-05", scenario="ตรวจสอบ Task ที่ระบบสร้างให้อัตโนมัติใน Project",
          note="หมายเหตุ: แต่ละบรรทัดใน SO (รวมถึงบรรทัด Preliminaries/Overhead &amp; Profit ที่เป็นแค่ตัวเลขสรุป ไม่ใช่งานจริง) จะได้ Task ของตัวเอง 1 งานเสมอ — เป็นพฤติกรรมที่ทราบอยู่แล้ว (ยังไม่กรองออก) ไม่ใช่ error หากเห็น Task ชื่อ \"BOQ Summary Line Preliminaries/Overhead &amp; Profit\" ปนอยู่กับงานจริง",
          pre="ทำ TC-E2E-M4-04 เสร็จแล้ว",
          steps=["กดปุ่มสถิติ \"Tasks\" บน Sale Order (หรือเปิด Project แล้วดู Tasks)"],
          sample="-",
-         expected="เห็น Task ครบ 1 งานต่อ 1 บรรทัดสินค้า/บริการ — ตัวอย่างจริง: 4 Tasks (\"Vietnam Limestone - Slab...\", \"Dry-Lay\", \"BOQ Summary Line Preliminaries (5%)\", \"BOQ Summary Line Overhead &amp; Profit (10%)\")", prio="Medium",
+         expected="เห็น Task ครบ 1 งานต่อ 1 บรรทัดสินค้า/บริการ — ตัวอย่างจริง: 4 Tasks (\"Vietnam Limestone - Slab (ปูพื้นระเบียง)...\", \"Dry-Lay\", \"BOQ Summary Line Preliminaries (5%)\", \"BOQ Summary Line Overhead &amp; Profit (10%)\")", prio="Medium",
          shot="assets/mode4/tc04-tasks-created.png"),
   ]),
   dict(cat_id="F3", title="F3. เรียกเก็บเงินแบบ Down Payment 30/40/30",
@@ -126,30 +142,30 @@ CATEGORIES = [
          pre="ทำ TC-E2E-M4-04 เสร็จแล้ว",
          steps=["เปิด Sale Order &gt; กด \"Create Invoice\"", "เลือก \"Down payment (Percentage)\" &gt; กรอก 30", "กด \"Create Draft Invoice\"", "เปิดใบแจ้งหนี้ที่เกิดขึ้น &gt; กด Confirm"],
          sample="Down Payment = 30%",
-         expected="ใบแจ้งหนี้สถานะ Posted ยอด 30% ของยอดรวม SO — ตัวอย่างจริง: INV/2026/00012 (282.48 บาท จาก 941.60 &times; 30%)", prio="High",
+         expected="ใบแจ้งหนี้สถานะ Posted ยอด 30% ของยอดรวม SO — ตัวอย่างจริง: INV/2026/00015 (442.98 บาท จาก 1,476.60 &times; 30%)", prio="High",
          shot="assets/mode4/tc05-dp1-30pct.png"),
     dict(id="TC-E2E-M4-07", scenario="สร้างใบแจ้งหนี้มัดจำงวดที่ 2 (Down Payment 40%)",
          pre="ทำ TC-E2E-M4-06 เสร็จแล้ว",
          steps=["เปิด Sale Order &gt; กด \"Create Invoice\" อีกครั้ง", "เลือก \"Down payment (Percentage)\" &gt; กรอก 40", "กด \"Create Draft Invoice\"", "เปิดใบแจ้งหนี้ &gt; กด Confirm"],
          sample="Down Payment = 40%",
-         expected="ใบแจ้งหนี้สถานะ Posted ยอด 40% ของยอดรวม SO — ตัวอย่างจริง: INV/2026/00013 (376.64 บาท จาก 941.60 &times; 40%)", prio="High",
+         expected="ใบแจ้งหนี้สถานะ Posted ยอด 40% ของยอดรวม SO — ตัวอย่างจริง: INV/2026/00016 (590.64 บาท จาก 1,476.60 &times; 40%)", prio="High",
          shot="assets/mode4/tc06-dp2-40pct.png"),
     dict(id="TC-E2E-M4-08", scenario="สร้างใบแจ้งหนี้มัดจำงวดสุดท้าย (Down Payment 30% ปิดยอด)",
          pre="ทำ TC-E2E-M4-07 เสร็จแล้ว",
          steps=["เปิด Sale Order &gt; กด \"Create Invoice\" อีกครั้ง", "เลือก \"Down payment (Percentage)\" &gt; กรอก 30", "กด \"Create Draft Invoice\"", "เปิดใบแจ้งหนี้ &gt; กด Confirm"],
          sample="Down Payment = 30%",
-         expected="ใบแจ้งหนี้สถานะ Posted ยอดงวดสุดท้าย รวม 3 ใบแล้วเท่ากับยอด SO เป๊ะ — ตัวอย่างจริง: INV/2026/00014 (282.48 บาท) รวม 3 ใบ = 282.48 + 376.64 + 282.48 = 941.60 บาท ตรงกับยอด SO พอดี", prio="High",
+         expected="ใบแจ้งหนี้สถานะ Posted ยอดงวดสุดท้าย รวม 3 ใบแล้วเท่ากับยอด SO เป๊ะ — ตัวอย่างจริง: INV/2026/00017 (442.98 บาท) รวม 3 ใบ = 442.98 + 590.64 + 442.98 = 1,476.60 บาท ตรงกับยอด SO พอดี", prio="High",
          shot="assets/mode4/tc07-dp3-30pct.png"),
   ]),
   dict(cat_id="F4", title="F4. ส่งมอบสินค้าจริง",
        subtitle="บรรทัดสินค้าหินยังต้องเดินตามขั้นตอนส่งมอบปกติของโหมดนั้นๆ (ที่นี่คือ Mode 2 Lot) · 1 test case",
        cases=[
     dict(id="TC-E2E-M4-09", scenario="ส่งมอบสินค้า (Delivery) ให้ลูกค้า",
-         note="🔴 พบปัญหาจริง (ยังไม่แก้): ระบบดึงสต็อกจากจุดพัก \"Stone Hold\" เสมอสำหรับสินค้าโหมด Lot ทั้งที่โหมดนี้ไม่เคยมีขั้นตอนย้ายของจริงไปที่จุดพักนั้นเลย (ต่างจาก Serial/Cut-to-Order) ผลคือยอดคงเหลือที่จุดพักนั้นติดลบเพิ่มขึ้นเรื่อยๆ ทุกครั้งที่ส่งของ (จาก -1.8 เป็น -2.3 ตร.ม.ในรอบนี้) แม้ของจริงจะยังอยู่ครบที่หน้าคลัง — ใบส่งของยังคง Validate ผ่านได้ตามปกติ ไม่กระทบขั้นตอนที่ผู้ใช้เห็น",
+         note="✅ เคยพบปัญหาจริงตรงนี้ (ระบบดึงสต็อกจากจุดพัก \"Stone Hold\" ที่โหมด Lot ไม่เคยย้ายของเข้าจริง ทำให้ยอดติดลบเพิ่มขึ้นทุกครั้งที่ส่งของ) — แก้ไขแล้วและทดสอบซ้ำผ่านในรอบนี้: ระบบดึงสต็อกจากจุดที่ของจริงอยู่ (\"Stone Available\") แทน ดูรายละเอียดที่ปุ่ม \"Details\" ในรายการส่งของ",
          pre="ทำ TC-E2E-M4-08 เสร็จแล้ว มีใบส่งของอัตโนมัติรออยู่ตั้งแต่ตอน Confirm",
          steps=["เปิด Inventory &gt; Deliveries", "เปิดใบส่งของของ SO นี้", "กด Validate"],
          sample="-",
-         expected="ใบส่งของเปลี่ยนสถานะเป็น Done — ตัวอย่างจริง: EG01/OUT/00059 (Vietnam Limestone - Slab 0.5 ตร.ม.)", prio="High",
+         expected="ใบส่งของเปลี่ยนสถานะเป็น Done ดึงสต็อกจากจุดที่ของจริงอยู่ถูกต้อง — ตัวอย่างจริง: EG01/OUT/00064 (Vietnam Limestone - Slab 0.5 ตร.ม., Pick From \"Stone Inventory/Stone Available\")", prio="High",
          shot="assets/mode4/tc08-delivery-done.png"),
   ]),
   dict(cat_id="F5", title="F5. ติดตามงานผ่าน Task และ Milestone",
@@ -159,7 +175,7 @@ CATEGORIES = [
          pre="ทำ TC-E2E-M4-09 เสร็จแล้ว มี Task ที่ตั้ง Milestone ไว้ล่วงหน้าตอนสร้าง BOQ (บรรทัด Dry-Lay)",
          steps=["เปิด Task \"Dry-Lay\"", "เลื่อนสถานะ Task ไปช่อง/สถานะ Done"],
          sample="-",
-         expected="Task ขึ้นเครื่องหมายเสร็จ และ Milestone ที่ผูกกับ Task นั้นเปลี่ยนเป็น \"Reached\" ให้อัตโนมัติ โดยไม่ต้องไปกดยืนยัน Milestone แยกต่างหาก — ตัวอย่างจริง: Milestone \"ปูพื้นหินเสร็จสมบูรณ์ (Dry-Lay Complete)\" ขึ้นเครื่องหมายถูกในหน้า Project Dashboard ทันที", prio="Medium",
+         expected="Task ขึ้นเครื่องหมายเสร็จ และ Milestone ที่ผูกกับ Task นั้นเปลี่ยนเป็น \"Reached\" ให้อัตโนมัติ โดยไม่ต้องไปกดยืนยัน Milestone แยกต่างหาก — ตัวอย่างจริง: Milestone \"ปูพื้นระเบียงเสร็จสมบูรณ์ (Dry-Lay Complete)\" ขึ้นเครื่องหมายถูกในหน้า Project Dashboard ทันที", prio="Medium",
          shot="assets/mode4/tc10-dashboard-milestone-pl.png"),
     dict(id="TC-E2E-M4-11", scenario="เปิดดู Gantt Chart ของทั้งโปรเจกต์",
          pre="ทำ TC-E2E-M4-05 เสร็จแล้ว (มี Task พร้อมวันที่วางแผนแล้ว)",
@@ -175,13 +191,13 @@ CATEGORIES = [
          pre="ทำ TC-E2E-M4-08 เสร็จแล้ว (ออกใบแจ้งหนี้ครบ 3 งวด)",
          steps=["เปิด Project ของ SO นี้", "ดูส่วน \"Profitability\" บนหน้า Dashboard ของ Project"],
          sample="-",
-         expected="เห็นยอดรายได้แยกตามหมวด (Materials / Other Services / Down Payments) รวมกันแล้วต้องเท่ากับยอดใบแจ้งหนี้ทั้งหมด (ไม่รวม VAT) — ตัวอย่างจริง: Other Services 480 + Materials 400 = Total Revenues 880 บาท ตรงกับยอด Invoiced 880 บาททั้งหมด (ออกครบ 3 งวดแล้ว จึง Expected = Invoiced พอดี ไม่มียอดค้าง \"To Invoice\")", prio="Medium",
+         expected="เห็นยอดรายได้แยกตามหมวด (Materials / Other Services / Down Payments) รวมกันแล้วต้องเท่ากับยอดใบแจ้งหนี้ทั้งหมด (ไม่รวม VAT) — ตัวอย่างจริง: Other Services 480 + Materials 900 = Total Revenues 1,380 บาท ตรงกับยอด Invoiced 1,380 บาททั้งหมด (ออกครบ 3 งวดแล้ว จึง Expected = Invoiced พอดี ไม่มียอดค้าง \"To Invoice\" — ยอด Materials 900 นี้คือหลักฐานว่าราคาที่ BOQ ตั้งไว้ไม่ถูกเขียนทับแล้ว, ดู TC-03)", prio="Medium",
          shot="assets/mode4/tc10-dashboard-milestone-pl.png"),
     dict(id="TC-E2E-M4-13", scenario="ตรวจรายการบัญชีของใบแจ้งหนี้แต่ละงวด (Journal Items)",
          pre="ทำ TC-E2E-M4-08 เสร็จแล้ว",
          steps=["เปิดใบแจ้งหนี้งวดใดงวดหนึ่ง &gt; กดแท็บ \"Journal Items\""],
          sample="-",
-         expected="เดบิต/เครดิตสมดุลกัน (รวมเท่ากันทั้ง 2 ฝั่ง) เห็น Analytic Distribution ผูกกับบัญชี Analytic ของโปรเจกต์นี้บนบรรทัดรายได้ — ตัวอย่างจริง: INV/2026/00014 เดบิต Trade Receivables 282.48 = เครดิต Down Payment 264.00 + Output VAT 18.48 พอดี พร้อมป้าย Analytic \"BOQ0023 - ทดสอบ Mode 4...\"", prio="Medium",
+         expected="เดบิต/เครดิตสมดุลกัน (รวมเท่ากันทั้ง 2 ฝั่ง) เห็น Analytic Distribution ผูกกับบัญชี Analytic ของโปรเจกต์นี้บนบรรทัดรายได้ — ตัวอย่างจริง: INV/2026/00017 เดบิต Trade Receivables 442.98 = เครดิต Down Payment 414.00 + Output VAT 28.98 พอดี พร้อมป้าย Analytic \"BOQ0026 - ทดสอบ Mode 4 Retest...\"", prio="Medium",
          shot="assets/mode4/tc11-journal-items.png"),
   ]),
 ]

diff --git a/qa/generator/build_html_e2e_mode4.py b/qa/generator/build_html_e2e_mode4.py
@@ -4,7 +4,10 @@ def steps_html(steps):
     return '<ol>' + ''.join('<li>%s</li>' % s for s in steps) + '</ol>'
 
 def note_html(note):
-    return ('<div class="note">%s</div>' % note) if note else ''
+    if not note:
+        return ''
+    cls = 'note note-ok' if note.startswith('✅') else 'note'
+    return '<div class="%s">%s</div>' % (cls, note)
 
 def prio_badge(p):
     cls = {'High': 'prio-high', 'Medium': 'prio-med', 'Low': 'prio-low'}[p]
@@ -154,6 +157,7 @@ PAGE = '''<!doctype html>
   .tc-shot-link:hover img{transform:scale(1.6);position:relative;z-index:5;box-shadow:0 8px 24px rgba(0,0,0,.3);}
   .tc-id{font-family:Consolas,Menlo,monospace;font-size:11.5px;color:var(--copper-dark);font-weight:700;}
   .note{margin-top:6px;font-size:11.5px;color:var(--amber);background:var(--amber-bg);border-radius:6px;padding:4px 8px;}
+  .note-ok{color:var(--green);background:var(--green-bg);}
   .prio-badge{display:inline-block;font-size:11px;font-weight:700;letter-spacing:.3px;padding:3px 10px;border-radius:99px;}
   .prio-high{background:var(--red-bg);color:var(--red);}
   .prio-med{background:var(--amber-bg);color:var(--amber);}
@@ -181,7 +185,7 @@ PAGE = '''<!doctype html>
   <header>
     <div class="eyebrow">Empire Stone × Empire Granite — QA</div>
     <h1>Test Cases: E2E Flow — Mode 4 (Sold-as-Project)</h1>
-    <div class="sub">เรื่องราวเดียวต่อเนื่องกันตั้งแต่ตั้งต้นจากเอกสาร BOQ ติ๊ก "Sold as Project" ยืนยันคำสั่งขายให้ระบบสร้าง Project + Task ให้อัตโนมัติ เรียกเก็บเงินแบบมัดจำ 3 งวด (30/40/30) ส่งมอบสินค้าจริง ปิดงานให้ Milestone ขึ้นสำเร็จ จนถึงตรวจสอบกำไรขาดทุนของโปรเจกต์และรายการบัญชี — ไม่ใช่การเทสฟีเจอร์แยกส่วน และไม่มีข้อไหนเป็นการดักฟิลด์บังคับ/error ทั่วไป เดินตามได้เองแม้ไม่ใช่ technical user ตัวเลข "ตัวอย่างจริง" มาจากการรันจริงที่ทำขึ้นเฉพาะสำหรับเอกสารนี้ ไม่ใช่ตัวเลขสมมติ — รวมถึง 3 ปัญหาจริงที่พบระหว่างทางซึ่งยังไม่ได้แก้ไข (ดูกล่องสีเหลืองใน TC-03 และ TC-09)</div>
+    <div class="sub">เรื่องราวเดียวต่อเนื่องกันตั้งแต่ตั้งต้นจากเอกสาร BOQ ติ๊ก "Sold as Project" ยืนยันคำสั่งขายให้ระบบสร้าง Project + Task ให้อัตโนมัติ เรียกเก็บเงินแบบมัดจำ 3 งวด (30/40/30) ส่งมอบสินค้าจริง ปิดงานให้ Milestone ขึ้นสำเร็จ จนถึงตรวจสอบกำไรขาดทุนของโปรเจกต์และรายการบัญชี — ไม่ใช่การเทสฟีเจอร์แยกส่วน และไม่มีข้อไหนเป็นการดักฟิลด์บังคับ/error ทั่วไป เดินตามได้เองแม้ไม่ใช่ technical user ตัวเลข "ตัวอย่างจริง" มาจากการรันจริงที่ทำขึ้นเฉพาะสำหรับเอกสารนี้ ไม่ใช่ตัวเลขสมมติ — รวมถึง 3 ปัญหาจริงที่เคยพบระหว่างทาง ซึ่งแก้ไขและทดสอบซ้ำผ่านแล้ว (ดูกล่องสีเขียวใน TC-03 และ TC-09)</div>
     <div class="stat-row">
       <div class="stat-pill"><b>__TOTAL__</b>Test Case ทั้งหมด</div>
       <div class="stat-pill"><b>__NCAT__</b>หมวด</div>
@@ -192,8 +196,8 @@ PAGE = '''<!doctype html>
   </header>
 
   <div class="flow-banner">
-    <b>เรื่องราวที่ใช้อ้างอิง:</b> BOQ0023 (ลูกค้า "ทดสอบ Mode 4 - Boutique Villa") &rarr; Generate Quotation &rarr; SO S00102 (ติ๊ก Sold as Project) &rarr; Select Lot Stock (Vietnam Limestone Lot BLK-26-0004, 0.5 ตร.ม.) &rarr; Confirm &rarr; Project 38 + 4 Tasks สร้างอัตโนมัติ &rarr; Down Payment 3 งวด INV/2026/00012 (282.48, 30%) + 00013 (376.64, 40%) + 00014 (282.48, 30%) รวม 941.60 บาท &rarr; Delivery EG01/OUT/00059 (Done) &rarr; Task จริง 2 งาน Mark Done &rarr; Milestone "ปูพื้นหินเสร็จสมบูรณ์" Reached &rarr; Project Dashboard: Total Revenues 880 = Invoiced 880 บาท — <b>เดินสดผ่านหน้าจอ Odoo จริงทุกขั้นตอน</b> (Playwright ไม่ใช่ผ่าน <code>odoo shell</code>) บน <code>mbx-ee-dev</code> เฉพาะสำหรับเอกสารนี้ 2026-09-06 ทุกภาพประกอบด้านล่างคือภาพหน้าจอจริงจากการรันนี้ ไม่ใช่ภาพจำลอง<br><br>
-    <b>🔴 พบ 3 ปัญหาจริงยังไม่ได้แก้:</b> ทั้งหมดอยู่ในเส้นทางสินค้าโหมด Lot (ไม่เฉพาะ Mode 4) — (1) เส้นทางส่งของดึงสต็อกจากจุดพัก "Stone Hold" ที่โหมด Lot ไม่เคยย้ายของเข้าจริง ทำให้ยอดติดลบเพิ่มขึ้นทุกครั้งที่ส่งของ (2) ผลจากข้อ 1 ทำให้ตัวเลข "สต็อกคงเหลือ" ที่ระบบโชว์ต่ำกว่าของจริงมาก (3) ราคาที่ BOQ ตั้งไว้ถูกเขียนทับด้วยราคาป้ายสินค้าปกติหลังเลือกสต็อก Lot โดยไม่มีคำเตือน — ดูรายละเอียดที่ TC-03 และ TC-09
+    <b>เรื่องราวที่ใช้อ้างอิง:</b> BOQ0026 (ลูกค้า "ทดสอบ Mode 4 Retest - Riverside Condo") &rarr; Generate Quotation &rarr; SO S00109 (ติ๊ก Sold as Project) &rarr; Select Lot Stock (Vietnam Limestone Lot BLK-26-0004, 0.5 ตร.ม.) &rarr; Confirm &rarr; Project 40 + 4 Tasks สร้างอัตโนมัติ &rarr; Down Payment 3 งวด INV/2026/00015 (442.98, 30%) + 00016 (590.64, 40%) + 00017 (442.98, 30%) รวม 1,476.60 บาท &rarr; Delivery EG01/OUT/00064 (Done) &rarr; Task จริง 2 งาน Mark Done &rarr; Milestone "ปูพื้นระเบียงเสร็จสมบูรณ์" Reached &rarr; Project Dashboard: Total Revenues 1,380 = Invoiced 1,380 บาท — <b>เดินสดผ่านหน้าจอ Odoo จริงทุกขั้นตอน</b> (Playwright ไม่ใช่ผ่าน <code>odoo shell</code>) บน <code>mbx-ee-dev</code> เฉพาะสำหรับเอกสารนี้ 2026-09-06 ทุกภาพประกอบด้านล่างคือภาพหน้าจอจริงจากการรันนี้ ไม่ใช่ภาพจำลอง<br><br>
+    <b style="color:var(--green)">✅ พบ 3 ปัญหาจริง — แก้ไขและทดสอบซ้ำผ่านแล้ว:</b> รอบก่อนหน้า (BOQ0023 &rarr; SO S00102, ลูกค้า "ทดสอบ Mode 4 - Boutique Villa") พบ 3 ปัญหาจริงในเส้นทางสินค้าโหมด Lot (ไม่เฉพาะ Mode 4) — (1) เส้นทางส่งของดึงสต็อกจากจุดพัก "Stone Hold" ที่โหมด Lot ไม่เคยย้ายของเข้าจริง ทำให้ยอดติดลบเพิ่มขึ้นทุกครั้งที่ส่งของ (2) ผลจากข้อ 1 ทำให้ตัวเลข "สต็อกคงเหลือ" ที่ระบบโชว์ต่ำกว่าของจริงมาก (3) ราคาที่ BOQ ตั้งไว้ถูกเขียนทับด้วยราคาป้ายสินค้าปกติหลังเลือกสต็อก Lot โดยไม่มีคำเตือน — ทั้ง 3 ข้อแก้ไขแล้วในโค้ด (<code>stone_slab_inventory</code> commit 34be05d + 1e09854) และรันรอบนี้ (BOQ0026 &rarr; SO S00109) เพื่อยืนยันว่าผ่านจริง — ดูรายละเอียดที่ TC-03 และ TC-09
   </div>
 
 __CATEGORY_BLOCKS__
